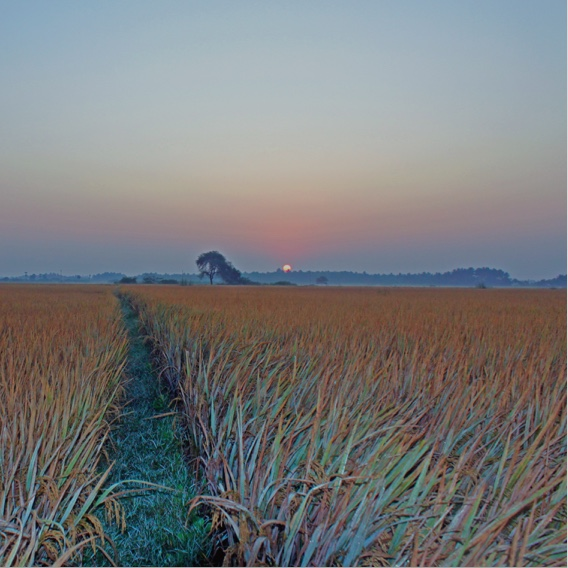
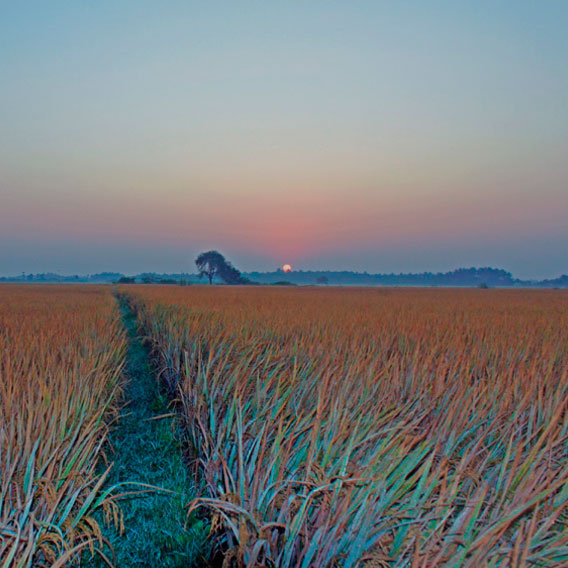
1. Under construction reworked 2. image corrections

Changed region(s): [[0.0, 0.0, 1.0, 1.0], [0.419, 0.4489, 0.9278, 0.5088], [0.0, 0.4489, 0.3891, 0.5088]]

diff --git a/dist/index.html b/dist/index.html
@@ -15,7 +15,7 @@
   <link rel="shortcut icon" href="/favicons/favicon.ico?v=123421">
   <meta name="msapplication-config" content="/favicons/browserconfig.xml">
   <meta name="theme-color" content="#ffffff">
-  <link href="/css/style.min.css?1537258324" rel="stylesheet">
+  <link href="/css/style.min.css?1537259102" rel="stylesheet">
   <script>var curr_lang_code = "en";
     var lang_codes = {};lang_codes["en"] = "en";lang_codes["de"] = "de";lang_codes["fr"] = "fr";lang_codes["hr"] = "hr";lang_codes["ru"] = "ru";lang_codes["zh"] = "zh";lang_codes["ko"] = "ko";lang_codes["ja"] = "ja";lang_codes["th"] = "th";lang_codes["es"] = "es";lang_codes["pt"] = "pt";
   </script>
@@ -81,7 +81,7 @@
     </div>
     <div class="screen-blockchain">
       <div class="container">
-        <h2>Blockchain as the upcoming Technology infrastructure</h2><img class="main" src="/assets/images/scheme_3.png">
+        <h2>Blockchain as the upcoming Technology infrastructure</h2><img class="main" src="/assets/images/scheme_3.jpg">
         <section>
           <h4>Blockchain is the Inevitable Technology Infrastructure of the near future, embrace it!</h4>
           <ul>

diff --git a/dist/cases/land-registry/index.html b/dist/cases/land-registry/index.html
@@ -15,7 +15,7 @@
   <link rel="shortcut icon" href="/favicons/favicon.ico?v=123421">
   <meta name="msapplication-config" content="/favicons/browserconfig.xml">
   <meta name="theme-color" content="#ffffff">
-  <link href="/css/style.min.css?1537258330" rel="stylesheet">
+  <link href="/css/style.min.css?1537259105" rel="stylesheet">
   <script>var curr_lang_code = "en";
     var lang_codes = {};lang_codes["en"] = "en";lang_codes["de"] = "de";lang_codes["fr"] = "fr";lang_codes["hr"] = "hr";lang_codes["ru"] = "ru";lang_codes["zh"] = "zh";lang_codes["ko"] = "ko";lang_codes["ja"] = "ja";lang_codes["th"] = "th";lang_codes["es"] = "es";lang_codes["pt"] = "pt";
   </script>
@@ -35,7 +35,7 @@
     </div>
   </app-header>
   <app-land-registry>
-    <div class="screen-main" style="background-image:none; height: auto;padding-top:0;"><img src="/assets/images/uc.jpg" style="width:100%"></div>
+    <div class="screen-main" style="background-image:none; height: auto;padding-top:0;"><img src="/assets/images/uc-2.jpg" style="width:100%"></div>
     <app-footer>
       <div class="screen-map" *ngif="map">
         <div class="container">

diff --git a/dist/cases/vehicle-registry/index.html b/dist/cases/vehicle-registry/index.html
@@ -15,7 +15,7 @@
   <link rel="shortcut icon" href="/favicons/favicon.ico?v=123421">
   <meta name="msapplication-config" content="/favicons/browserconfig.xml">
   <meta name="theme-color" content="#ffffff">
-  <link href="/css/style.min.css?1537258333" rel="stylesheet">
+  <link href="/css/style.min.css?1537259106" rel="stylesheet">
   <script>var curr_lang_code = "en";
     var lang_codes = {};lang_codes["en"] = "en";lang_codes["de"] = "de";lang_codes["fr"] = "fr";lang_codes["hr"] = "hr";lang_codes["ru"] = "ru";lang_codes["zh"] = "zh";lang_codes["ko"] = "ko";lang_codes["ja"] = "ja";lang_codes["th"] = "th";lang_codes["es"] = "es";lang_codes["pt"] = "pt";
   </script>
@@ -35,7 +35,7 @@
     </div>
   </app-header>
   <app-land-registry>
-    <div class="screen-main" style="background-image:none; height: auto;padding-top:0;"><img src="/assets/images/uc.jpg" style="width:100%"></div>
+    <div class="screen-main" style="background-image:none; height: auto;padding-top:0;"><img src="/assets/images/uc-2.jpg" style="width:100%"></div>
     <app-footer>
       <div class="screen-map" *ngif="map">
         <div class="container">

diff --git a/dist/about/index.html b/dist/about/index.html
@@ -15,7 +15,7 @@
   <link rel="shortcut icon" href="/favicons/favicon.ico?v=123421">
   <meta name="msapplication-config" content="/favicons/browserconfig.xml">
   <meta name="theme-color" content="#ffffff">
-  <link href="/css/style.min.css?1537258326" rel="stylesheet">
+  <link href="/css/style.min.css?1537259105" rel="stylesheet">
   <script>var curr_lang_code = "en";
     var lang_codes = {};lang_codes["en"] = "en";lang_codes["de"] = "de";lang_codes["fr"] = "fr";lang_codes["hr"] = "hr";lang_codes["ru"] = "ru";lang_codes["zh"] = "zh";lang_codes["ko"] = "ko";lang_codes["ja"] = "ja";lang_codes["th"] = "th";lang_codes["es"] = "es";lang_codes["pt"] = "pt";
   </script>

diff --git a/dist/business/index.html b/dist/business/index.html
@@ -15,7 +15,7 @@
   <link rel="shortcut icon" href="/favicons/favicon.ico?v=123421">
   <meta name="msapplication-config" content="/favicons/browserconfig.xml">
   <meta name="theme-color" content="#ffffff">
-  <link href="/css/style.min.css?1537258326" rel="stylesheet">
+  <link href="/css/style.min.css?1537259103" rel="stylesheet">
   <script>var curr_lang_code = "en";
     var lang_codes = {};lang_codes["en"] = "en";lang_codes["de"] = "de";lang_codes["fr"] = "fr";lang_codes["hr"] = "hr";lang_codes["ru"] = "ru";lang_codes["zh"] = "zh";lang_codes["ko"] = "ko";lang_codes["ja"] = "ja";lang_codes["th"] = "th";lang_codes["es"] = "es";lang_codes["pt"] = "pt";
   </script>

diff --git a/dist/career/index.html b/dist/career/index.html
@@ -15,7 +15,7 @@
   <link rel="shortcut icon" href="/favicons/favicon.ico?v=123421">
   <meta name="msapplication-config" content="/favicons/browserconfig.xml">
   <meta name="theme-color" content="#ffffff">
-  <link href="/css/style.min.css?1537258329" rel="stylesheet">
+  <link href="/css/style.min.css?1537259104" rel="stylesheet">
   <script>var curr_lang_code = "en";
     var lang_codes = {};lang_codes["en"] = "en";lang_codes["de"] = "de";lang_codes["fr"] = "fr";lang_codes["hr"] = "hr";lang_codes["ru"] = "ru";lang_codes["zh"] = "zh";lang_codes["ko"] = "ko";lang_codes["ja"] = "ja";lang_codes["th"] = "th";lang_codes["es"] = "es";lang_codes["pt"] = "pt";
   </script>

diff --git a/dist/cases/business-licensing/index.html b/dist/cases/business-licensing/index.html
@@ -15,7 +15,7 @@
   <link rel="shortcut icon" href="/favicons/favicon.ico?v=123421">
   <meta name="msapplication-config" content="/favicons/browserconfig.xml">
   <meta name="theme-color" content="#ffffff">
-  <link href="/css/style.min.css?1537258329" rel="stylesheet">
+  <link href="/css/style.min.css?1537259105" rel="stylesheet">
   <script>var curr_lang_code = "en";
     var lang_codes = {};lang_codes["en"] = "en";lang_codes["de"] = "de";lang_codes["fr"] = "fr";lang_codes["hr"] = "hr";lang_codes["ru"] = "ru";lang_codes["zh"] = "zh";lang_codes["ko"] = "ko";lang_codes["ja"] = "ja";lang_codes["th"] = "th";lang_codes["es"] = "es";lang_codes["pt"] = "pt";
   </script>

diff --git a/dist/cases/financial-sector/index.html b/dist/cases/financial-sector/index.html
@@ -15,7 +15,7 @@
   <link rel="shortcut icon" href="/favicons/favicon.ico?v=123421">
   <meta name="msapplication-config" content="/favicons/browserconfig.xml">
   <meta name="theme-color" content="#ffffff">
-  <link href="/css/style.min.css?1537258330" rel="stylesheet">
+  <link href="/css/style.min.css?1537259105" rel="stylesheet">
   <script>var curr_lang_code = "en";
     var lang_codes = {};lang_codes["en"] = "en";lang_codes["de"] = "de";lang_codes["fr"] = "fr";lang_codes["hr"] = "hr";lang_codes["ru"] = "ru";lang_codes["zh"] = "zh";lang_codes["ko"] = "ko";lang_codes["ja"] = "ja";lang_codes["th"] = "th";lang_codes["es"] = "es";lang_codes["pt"] = "pt";
   </script>

diff --git a/dist/cases/index.html b/dist/cases/index.html
@@ -15,7 +15,7 @@
   <link rel="shortcut icon" href="/favicons/favicon.ico?v=123421">
   <meta name="msapplication-config" content="/favicons/browserconfig.xml">
   <meta name="theme-color" content="#ffffff">
-  <link href="/css/style.min.css?1537258329" rel="stylesheet">
+  <link href="/css/style.min.css?1537259104" rel="stylesheet">
   <script>var curr_lang_code = "en";
     var lang_codes = {};lang_codes["en"] = "en";lang_codes["de"] = "de";lang_codes["fr"] = "fr";lang_codes["hr"] = "hr";lang_codes["ru"] = "ru";lang_codes["zh"] = "zh";lang_codes["ko"] = "ko";lang_codes["ja"] = "ja";lang_codes["th"] = "th";lang_codes["es"] = "es";lang_codes["pt"] = "pt";
   </script>

diff --git a/dist/cases/land-registry/index2.html b/dist/cases/land-registry/index2.html
@@ -15,7 +15,7 @@
   <link rel="shortcut icon" href="/favicons/favicon.ico?v=123421">
   <meta name="msapplication-config" content="/favicons/browserconfig.xml">
   <meta name="theme-color" content="#ffffff">
-  <link href="/css/style.min.css?1537258330" rel="stylesheet">
+  <link href="/css/style.min.css?1537259105" rel="stylesheet">
   <script>var curr_lang_code = "en";
     var lang_codes = {};lang_codes["en"] = "en";lang_codes["de"] = "de";lang_codes["fr"] = "fr";lang_codes["hr"] = "hr";lang_codes["ru"] = "ru";lang_codes["zh"] = "zh";lang_codes["ko"] = "ko";lang_codes["ja"] = "ja";lang_codes["th"] = "th";lang_codes["es"] = "es";lang_codes["pt"] = "pt";
   </script>

diff --git a/dist/cases/music-copyright/index.html b/dist/cases/music-copyright/index.html
@@ -15,7 +15,7 @@
   <link rel="shortcut icon" href="/favicons/favicon.ico?v=123421">
   <meta name="msapplication-config" content="/favicons/browserconfig.xml">
   <meta name="theme-color" content="#ffffff">
-  <link href="/css/style.min.css?1537258331" rel="stylesheet">
+  <link href="/css/style.min.css?1537259105" rel="stylesheet">
   <script>var curr_lang_code = "en";
     var lang_codes = {};lang_codes["en"] = "en";lang_codes["de"] = "de";lang_codes["fr"] = "fr";lang_codes["hr"] = "hr";lang_codes["ru"] = "ru";lang_codes["zh"] = "zh";lang_codes["ko"] = "ko";lang_codes["ja"] = "ja";lang_codes["th"] = "th";lang_codes["es"] = "es";lang_codes["pt"] = "pt";
   </script>

diff --git a/dist/cases/supply-chain/index.html b/dist/cases/supply-chain/index.html
@@ -15,7 +15,7 @@
   <link rel="shortcut icon" href="/favicons/favicon.ico?v=123421">
   <meta name="msapplication-config" content="/favicons/browserconfig.xml">
   <meta name="theme-color" content="#ffffff">
-  <link href="/css/style.min.css?1537258332" rel="stylesheet">
+  <link href="/css/style.min.css?1537259106" rel="stylesheet">
   <script>var curr_lang_code = "en";
     var lang_codes = {};lang_codes["en"] = "en";lang_codes["de"] = "de";lang_codes["fr"] = "fr";lang_codes["hr"] = "hr";lang_codes["ru"] = "ru";lang_codes["zh"] = "zh";lang_codes["ko"] = "ko";lang_codes["ja"] = "ja";lang_codes["th"] = "th";lang_codes["es"] = "es";lang_codes["pt"] = "pt";
   </script>
